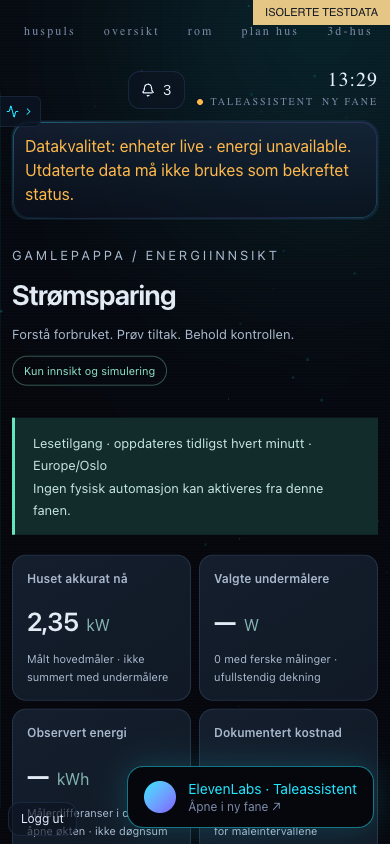
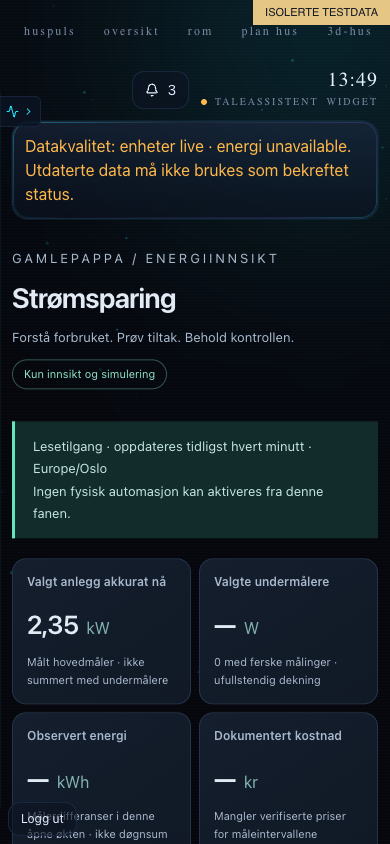
Separate energy sites and integrate independent Mac review

diff --git a/client/src/components/views/SavingsView.jsx b/client/src/components/views/SavingsView.jsx
@@ -1,6 +1,6 @@
 import { useEffect, useMemo, useState } from 'react';
 import { apiFetch } from '../../lib/api.js';
-import { inventory, overview, recommendations, appendSample, meterHistory, intervalCost, simulate, validatePlan } from '../../lib/savingsModel.js';
+import { inventory, siteRows, overview, recommendations, appendSample, meterHistory, intervalCost, simulate, validatePlan } from '../../lib/savingsModel.js';
 import './savings.css';
 const labels={measured:'Målt',missing:'Mangler',stale:'Foreldet / ukjent tid',demo:'Demo',live:'Tilgjengelig'};
 const number=(n,d=1)=>typeof n==='number'&&Number.isFinite(n)?n.toLocaleString('nb-NO',{maximumFractionDigits:d}):'—';
@@ -9,6 +9,7 @@ const initialPlan={deviceId:'',minutes:30,reason:'',comfort:'',nonCritical:false
 export function SavingsView(){
   const [data,setData]=useState(null),[error,setError]=useState(''),[clock,setClock]=useState(Date.now());
   const [mainId,setMain]=useState(''),[subIds,setSubs]=useState([]),[room,setRoom]=useState('');
+  const [siteId,setSite]=useState('hunstein'),[assignments,setAssignments]=useState({}),[cumulative,setCumulative]=useState(false);
   const [samples,setSamples]=useState([]),[plan,setPlan]=useState(initialPlan),[result,setResult]=useState(null);
   const [status,setStatus]=useState('Kladd'),[log,setLog]=useState([]),[confirmed,setConfirmed]=useState(false);
   const addLog=message=>setLog(old=>[{at:Date.now(),message},...old].slice(0,100));
@@ -24,40 +25,41 @@ export function SavingsView(){
   },[]);
   const quality=error?'stale':data?.devices?.quality;
   const rows=useMemo(()=>inventory(data?.devices?.value||{},data?.zones?.value||{},quality,clock),[data,quality,clock]);
-  const summary=useMemo(()=>overview(rows,mainId,subIds),[rows,mainId,subIds]);
-  const advice=useMemo(()=>recommendations(rows,summary),[rows,summary]);
-  useEffect(()=>{setSamples(old=>appendSample(old,rows.find(r=>r.id===mainId)));},[rows,mainId]);
-  const history=meterHistory(samples,mainId), cost=intervalCost(history,[]);
+  const scopedRows=useMemo(()=>siteRows(rows,siteId,assignments),[rows,siteId,assignments]);
+  const summary=useMemo(()=>overview(scopedRows,mainId,subIds),[scopedRows,mainId,subIds]);
+  const advice=useMemo(()=>recommendations(scopedRows,summary),[scopedRows,summary]);
+  useEffect(()=>{setSamples(old=>cumulative?appendSample(old,scopedRows.find(r=>r.id===mainId)):old);},[scopedRows,mainId,cumulative]);
+  const history=cumulative?meterHistory(samples,mainId):[], cost=intervalCost(history,[]);
   useEffect(()=>{
-    if(status==='Aktiv forhåndsvisning'&&validatePlan(plan,rows).length){setStatus('Pauset — datagrunnlaget er ikke lenger gyldig');setConfirmed(false);setResult(null);addLog('Forhåndsvisning automatisk pauset fordi ferske data eller enhetsgrunnlag mangler.');}
-  },[rows,plan,status]);
+    if(status==='Aktiv forhåndsvisning'&&validatePlan(plan,scopedRows).length){setStatus('Pauset — datagrunnlaget er ikke lenger gyldig');setConfirmed(false);setResult(null);addLog('Forhåndsvisning automatisk pauset fordi ferske data eller enhetsgrunnlag mangler.');}
+  },[scopedRows,plan,status]);
   const changePlan=patch=>{setPlan(p=>({...p,...patch}));setResult(null);setConfirmed(false);setStatus('Kladd');};
-  const runSimulation=()=>{const r=simulate(plan,rows);setResult(r);setStatus(r.ok?'Simulert':'Krever avklaring');addLog(r.ok?'Simulering beregnet lokalt. Ingen kommando sendt.':'Simulering stoppet: nødvendige opplysninger mangler.');};
-  const activatePreview=()=>{const fresh=simulate(plan,rows);if(!confirmed||!fresh.ok){setResult(fresh);setStatus('Krever ny simulering');return;}setResult(fresh);setStatus('Aktiv forhåndsvisning');addLog('Bruker aktiverte lokal forhåndsvisning. Fysisk kjøring er ikke implementert.');};
+  const runSimulation=()=>{const r=simulate(plan,scopedRows);setResult(r);setStatus(r.ok?'Simulert':'Krever avklaring');addLog(r.ok?'Simulering beregnet lokalt. Ingen kommando sendt.':'Simulering stoppet: nødvendige opplysninger mangler.');};
+  const activatePreview=()=>{const fresh=simulate(plan,scopedRows);if(!confirmed||!fresh.ok){setResult(fresh);setStatus('Krever ny simulering');return;}setResult(fresh);setStatus('Aktiv forhåndsvisning');addLog('Bruker aktiverte lokal forhåndsvisning. Fysisk kjøring er ikke implementert.');};
   const shown=rows.filter(r=>!room||r.room===room).sort((a,b)=>(b.power.value??-Infinity)-(a.power.value??-Infinity));
   return <div className="savings">
     <header className="saving-hero"><div><p className="saving-eyebrow">GAMLEPAPPA / ENERGIINNSIKT</p><h1>Strømsparing</h1><p>Forstå forbruket. Prøv tiltak. Behold kontrollen.</p></div><span className="saving-badge">Kun innsikt og simulering</span></header>
     <div className="saving-notice" role="status">{quality==='demo'?'DEMO — alle kildedata er testdata. Ingen bekreftet husmåling.':error||'Lesetilgang · oppdateres tidligst hvert minutt · Europe/Oslo'}<br/>Ingen fysisk automasjon kan aktiveres fra denne fanen.</div>
     <section className="saving-metrics" aria-label="Forbruksoversikt">
-      <Metric title="Huset akkurat nå" value={summary.total===null?'—':number(summary.total/1000,2)} unit="kW" note={summary.total===null?'Velg en fersk, bekreftet hovedmåler':'Målt hovedmåler · ikke summert med undermålere'}/>
+      <Metric title="Valgt anlegg akkurat nå" value={summary.total===null?'—':number(summary.total/1000,2)} unit="kW" note={summary.total===null?'Velg en fersk, bekreftet hovedmåler':'Målt hovedmåler · ikke summert med undermålere'}/>
       <Metric title="Valgte undermålere" value={number(summary.subtotal)} unit="W" note={`${summary.selected} med ferske målinger · ufullstendig dekning`}/>
       <Metric title="Observert energi" value={history.some(i=>i.kwh!==null)?number(history.reduce((s,i)=>s+(i.kwh??0),0),3):'—'} unit="kWh" note="Målerdifferanser i denne åpne økten · ikke døgnsum"/>
       <Metric title="Dokumentert kostnad" value={number(cost.cost,2)} unit="kr" note="Mangler verifiserte priser for måleintervallene"/>
     </section>
     <div className="saving-grid">
-      <section className="saving-card"><h2>01 / Måleroppsett</h2><label>Bekreftet hovedmåler<select value={mainId} onChange={e=>{setMain(e.target.value);setSubs(ids=>ids.filter(id=>id!==e.target.value));}}><option value="">Ikke identifisert</option>{rows.filter(r=>r.power.value!==null||r.meter.value!==null).map(r=><option key={r.id} value={r.id}>{r.name} · {r.room}</option>)}</select></label><p>Velg bare måleren som dekker hele huset. En ukjent enhet blir aldri automatisk hovedmåler.</p><details><summary>Velg uavhengige undermålere ({subIds.length})</summary><p>Velg kun målere som ikke overlapper hverandre. Hovedmåleren er utelatt.</p>{rows.filter(r=>r.id!==mainId&&r.power.value!==null).map(r=><label className="saving-check" key={r.id}><input type="checkbox" checked={subIds.includes(r.id)} onChange={e=>setSubs(ids=>e.target.checked?[...ids,r.id]:ids.filter(id=>id!==r.id))}/>{r.name}</label>)}</details>{summary.inconsistent&&<p role="alert" className="saving-warning">Undermåling overstiger hovedmåling. Kontroller overlapp og tidspunkt.</p>}<p>Ufordelt effekt: <strong>{number(summary.residual)} W</strong>. Differansen kan skyldes umålte laster eller usamtidige målinger.</p></section>
-      <section className="saving-card"><h2>02 / Datadekning</h2><div className="saving-coverage"><strong>{summary.measured} / {rows.length}</strong><span>enheter med fersk effektmåling</span></div><p>{summary.stale} foreldet · {summary.missing} uten effektdata. Dette er enhetsdekning, ikke prosent av husets energiforbruk.</p><dl><dt>Siste vellykkede enhetslesing</dt><dd>{time(data?.devices?.updatedAt)}</dd><dt>Sanntidsrapport fra Homey</dt><dd>{labels[data?.live?.quality]||'Mangler'} · format ikke kartlagt</dd><dt>Dagsrapport {data?.date||''}</dt><dd>{labels[data?.day?.quality]||'Mangler'} · format ikke kartlagt</dd></dl><p>Rapporttall brukes først når enheter og målerhierarki er verifisert. Målt, estimert, manglende og foreldet vises hver for seg.</p></section>
+      <section className="saving-card"><h2>01 / Måleroppsett</h2><label>Anlegg<select value={siteId} onChange={e=>{setSite(e.target.value);setMain('');setSubs([]);setCumulative(false);changePlan(initialPlan);}}><option value="hunstein">Hunstein 48C</option><option value="halsaneset">Halsaneset</option></select></label><p>Tilordne hver måler til riktig anlegg i tabellen nedenfor. Ukjent tilhørighet utelates. Oppsettet lagres bare i denne åpne fanen.</p><label>Bekreftet hovedmåler<select value={mainId} onChange={e=>{setMain(e.target.value);setCumulative(false);setSubs(ids=>ids.filter(id=>id!==e.target.value));}}><option value="">Ikke identifisert</option>{scopedRows.filter(r=>r.power.value!==null||r.meter.value!==null).map(r=><option key={r.id} value={r.id}>{r.name} · {r.room}</option>)}</select></label><p>Velg bare måleren som dekker hele huset. En ukjent enhet blir aldri automatisk hovedmåler.</p><details><summary>Velg uavhengige undermålere ({subIds.length})</summary><p>Velg kun målere som ikke overlapper hverandre. Hovedmåleren er utelatt.</p>{scopedRows.filter(r=>r.id!==mainId&&r.power.value!==null).map(r=><label className="saving-check" key={r.id}><input type="checkbox" checked={subIds.includes(r.id)} onChange={e=>setSubs(ids=>e.target.checked?[...ids,r.id]:ids.filter(id=>id!==r.id))}/>{r.name}</label>)}</details>{summary.inconsistent&&<p role="alert" className="saving-warning">Undermåling overstiger hovedmåling. Kontroller overlapp og tidspunkt.</p>}<p>Ufordelt effekt: <strong>{number(summary.residual)} W</strong>. Differansen kan skyldes umålte laster eller usamtidige målinger.</p></section>
+      <section className="saving-card"><h2>02 / Datadekning</h2><div className="saving-coverage"><strong>{summary.measured} / {scopedRows.length}</strong><span>tilordnede enheter med fersk effektmåling</span></div><p>{summary.stale} foreldet · {summary.missing} uten effektdata. Dette er enhetsdekning, ikke prosent av husets energiforbruk.</p><dl><dt>Siste vellykkede enhetslesing</dt><dd>{time(data?.devices?.updatedAt)}</dd><dt>Sanntidsrapport fra Homey</dt><dd>{labels[data?.live?.quality]||'Mangler'} · format ikke kartlagt</dd><dt>Dagsrapport {data?.date||''}</dt><dd>{labels[data?.day?.quality]||'Mangler'} · format ikke kartlagt</dd><dt>Kildestatus</dt><dd>{data?.devices?.reason||'Ingen kildefeil rapportert'}{data?.devices?.retryAt?` · neste leseforsøk tidligst ${time(data.devices.retryAt)}`:''}</dd></dl><p>Rapporttall brukes først når enheter og målerhierarki er verifisert. Målt, estimert, manglende og foreldet vises hver for seg.</p></section>
     </div>
     <section className="saving-card"><div className="saving-section-head"><h2>03 / Enheter og rom</h2><label>Rom<select value={room} onChange={e=>setRoom(e.target.value)}><option value="">Alle rom</option>{[...new Set(rows.map(r=>r.room))].sort().map(r=><option key={r}>{r}</option>)}</select></label></div>
       {summary.rooms.length>0&&<div className="saving-room-grid">{summary.rooms.map(r=><div key={r.room}><strong>{r.room}</strong><p>{r.count?`${number(r.watts)} W`:'Ingen ferske målinger'}</p><small>Valgte undermålere</small></div>)}</div>}
-      <div className="saving-table"><table><thead><tr><th>Enhet / rom</th><th>Effekt</th><th>Målerstand</th><th>Kvalitet / tidspunkt</th></tr></thead><tbody>{shown.map(r=><tr key={r.id}><td>{r.name}{r.id===mainId?' · Hovedmåler':''}<small>{r.room}</small></td><td>{number(r.power.value)} W</td><td>{number(r.meter.value,3)} kWh<small>{labels[r.meter.quality]} · kumulativ</small></td><td><span className={`saving-quality ${r.power.quality}`}>{labels[r.power.quality]}</span><small>{time(r.power.at)}</small></td></tr>)}</tbody></table></div>{!rows.length&&<p>Ingen enhetsdata tilgjengelig. Manglende målinger er ikke nullforbruk.</p>}
+      <div className="saving-table"><table><thead><tr><th>Enhet / rom</th><th>Bekreftet anlegg</th><th>Effekt</th><th>Målerstand</th><th>Kvalitet / tidspunkt</th></tr></thead><tbody>{shown.map(r=><tr key={r.id}><td>{r.name}{r.id===mainId?' · Hovedmåler':''}<small>{r.room}</small></td><td><select aria-label={`Anlegg for ${r.name}`} value={assignments[r.id]||''} onChange={e=>{setAssignments(a=>({...a,[r.id]:e.target.value}));setMain('');setSubs([]);setCumulative(false);changePlan(initialPlan);}}><option value="">Ukjent / ikke bekreftet</option><option value="hunstein">Hunstein 48C</option><option value="halsaneset">Halsaneset</option></select></td><td>{number(r.power.value)} W</td><td>{number(r.meter.value,3)} kWh<small>{labels[r.meter.quality]} · målerperiode ikke verifisert</small></td><td><span className={`saving-quality ${r.power.quality}`}>{labels[r.power.quality]}</span><small>{time(r.power.at)}</small></td></tr>)}</tbody></table></div>{!rows.length&&<p>Ingen enhetsdata tilgjengelig. Manglende målinger er ikke nullforbruk.</p>}
     </section>
     <div className="saving-grid">
-      <section className="saving-card"><h2>04 / Historikk og pris</h2><p>Historikken starter når du velger hovedmåler og får to forskjellige, ferske målerstander. Den lagres bare i minnet og slettes når fanen lukkes. Ingen tilbakeskrevet døgnkurve.</p>{history.length?<ul>{history.slice(-8).map(i=><li key={i.end}>{time(i.start)} → {time(i.end)}<br/><strong>{number(i.kwh,3)} kWh</strong> · {i.reason||'Målt differanse'}</li>)}</ul>:<div className="saving-empty">Venter på to gyldige målerstander</div>}<p>Strømpris, nettleie og avgifter: <strong>mangler verifisert kilde</strong>. Negative priser støttes i beregningsmodellen, men ingen priser eller besparelser er oppdiktet.</p></section>
+      <section className="saving-card"><h2>04 / Historikk og pris</h2><label className="saving-check"><input type="checkbox" disabled={!mainId} checked={cumulative} onChange={e=>{setCumulative(e.target.checked);setSamples([]);}}/>Jeg har kontrollert at hovedmåleren rapporterer kumulativ import i kWh.</label><p>Historikken starter når du velger hovedmåler og får to forskjellige, ferske målerstander. Den lagres bare i minnet og slettes når fanen lukkes. Ingen tilbakeskrevet døgnkurve.</p>{history.length?<ul>{history.slice(-8).map(i=><li key={i.end}>{time(i.start)} → {time(i.end)}<br/><strong>{number(i.kwh,3)} kWh</strong> · {i.reason||'Målt differanse'}</li>)}</ul>:<div className="saving-empty">Venter på to gyldige målerstander</div>}<p>Strømpris, nettleie og avgifter: <strong>mangler verifisert kilde</strong>. Negative priser støttes i beregningsmodellen, men ingen priser eller besparelser er oppdiktet.</p></section>
       <section className="saving-card"><h2>05 / Analyse og anbefalinger</h2><span className="saving-badge">Regelbasert · ikke AI-generert</span><p>AI er ikke koblet til denne fanen. Anbefalinger bygger på datakvalitet og observerte målinger.</p>{advice.map(a=><article className="saving-advice" key={a.title}><h3>{a.title}</h3><p>{a.body}</p></article>)}{!advice.length&&<p>Ingen anbefalinger uten tilstrekkelig datagrunnlag.</p>}</section>
     </div>
     <section className="saving-card"><h2>06 / Prøv en automasjon</h2><p>Lag et lokalt utkast for å slå av ett ikke-kritisk lys i en avgrenset periode. Varme, frostvern, varmtvann, stikkontakter og ukjente enheter kan ikke velges. Ingen sikkerhetsgrenser gjettes.</p><div className="saving-form">
-      <label>Lys<select aria-label="Lys" value={plan.deviceId} onChange={e=>changePlan({deviceId:e.target.value})}><option value="">Velg identifisert lys</option>{rows.filter(r=>r.canPlan).map(r=><option key={r.id} value={r.id}>{r.name}</option>)}</select></label>
+      <label>Lys<select aria-label="Lys" value={plan.deviceId} onChange={e=>changePlan({deviceId:e.target.value})}><option value="">Velg identifisert lys</option>{scopedRows.filter(r=>r.canPlan).map(r=><option key={r.id} value={r.id}>{r.name}</option>)}</select></label>
       <label>Varighet (minutter)<input type="number" min="1" max="120" value={Number.isFinite(plan.minutes)?plan.minutes:''} onChange={e=>changePlan({minutes:e.target.value===''?NaN:Number(e.target.value)})}/></label>
       <label>Begrunnelse<input maxLength="500" value={plan.reason} placeholder="For eksempel: rommet står tomt" onChange={e=>changePlan({reason:e.target.value})}/></label>
       <label>Egne komfort- og sikkerhetsgrenser<input maxLength="500" value={plan.comfort} placeholder="Når skal lyset fortsatt være på?" onChange={e=>changePlan({comfort:e.target.value})}/></label>

diff --git a/server/tests/savings-sites-review.test.js b/server/tests/savings-sites-review.test.js
@@ -1,0 +1,53 @@
+import test from 'node:test';
+import assert from 'node:assert/strict';
+import {siteRows,overview,inventory} from '../../client/src/lib/savingsModel.js';
+
+const now=Date.parse('2026-10-17T10:00:00Z');
+const cap=value=>({value,lastUpdated:new Date(now).toISOString()});
+const device=(name,power)=>({name,class:'sensor',zone:'room',available:true,capabilitiesObj:{measure_power:cap(power),meter_power:cap(20)}});
+const rows=()=>inventory({'hoved-hunstein':device('Pulse Hunstein 48C',4000),'varmepumpe':device('NIBE F1255',1500),'hoved-halsaneset':device('Pulse Halsaneset',900),'panelovn':device('Panelovn hytta',800)},{room:{name:'Stue'}},'live',now);
+const TILDELT={'hoved-hunstein':'hunstein','varmepumpe':'hunstein','hoved-halsaneset':'halsaneset','panelovn':'halsaneset'};
+
+test('målere fra et annet anlegg utelates fra utvalg og totaler',()=>{
+  const h=siteRows(rows(),'hunstein',TILDELT);
+  assert.deepEqual(h.map(r=>r.id),['hoved-hunstein','varmepumpe']);
+  const s=overview(h,'hoved-hunstein',h.map(r=>r.id));
+  assert.equal(s.total,4000);assert.equal(s.subtotal,1500);assert.equal(s.residual,2500);assert.equal(s.measured,2);
+  const hals=siteRows(rows(),'halsaneset',TILDELT);
+  assert.deepEqual(hals.map(r=>r.id),['hoved-halsaneset','panelovn']);
+  assert.equal(overview(hals,'hoved-halsaneset',hals.map(r=>r.id)).total,900);
+  // Hovedmåleren på det andre anlegget er ikke engang synlig som undermåler her.
+  assert.equal(overview(h,'hoved-hunstein',['hoved-halsaneset','panelovn']).subtotal,null);
+  assert.equal(overview(rows(),'hoved-hunstein',[]).measured,4);
+});
+
+test('ukjent anleggs-id og ukjent eller manglende tilordning utelates',()=>{
+  const r=rows();
+  for(const site of ['travbaneveien','','HUNSTEIN',null,undefined,0,['hunstein']])assert.deepEqual(siteRows(r,site,TILDELT),[]);
+  assert.deepEqual(siteRows(r,'hunstein'),[]);
+  const delvis={...TILDELT,varmepumpe:'travbaneveien',panelovn:undefined,'hoved-halsaneset':null};
+  assert.deepEqual(siteRows(r,'hunstein',delvis).map(x=>x.id),['hoved-hunstein']);
+  assert.deepEqual(siteRows(r,'halsaneset',delvis),[]);
+  // Tomt utvalg gir null, ikke 0 W.
+  assert.equal(overview(siteRows(r,'halsaneset',delvis),'hoved-halsaneset',[]).total,null);
+});
+
+test('navn og rom som peker på anlegget gir ingen tilordning',()=>{
+  const navnerader=inventory({m1:device('Halsaneset hovedmåler',900),m2:device('Hunstein 48C',4000)},{room:{name:'Halsaneset'}},'live',now);
+  assert.deepEqual(siteRows(navnerader,'halsaneset',{}),[]);
+  assert.deepEqual(siteRows(navnerader,'hunstein',{}),[]);
+  // Eksplisitt tilordning vinner over navnet, i begge retninger.
+  assert.deepEqual(siteRows(navnerader,'hunstein',{m2:'hunstein'}).map(r=>r.id),['m2']);
+  assert.deepEqual(siteRows(navnerader,'halsaneset',{m2:'hunstein'}),[]);
+  assert.deepEqual(siteRows(navnerader,'halsaneset',{m2:'halsaneset'}).map(r=>r.id),['m2']);
+});
+
+test('prototypearvet tilordning teller ikke som brukerbekreftet',()=>{
+  const r=rows();
+  assert.deepEqual(siteRows(r,'hunstein',Object.create({'hoved-hunstein':'hunstein','varmepumpe':'hunstein'})),[]);
+  const blandet=Object.assign(Object.create({varmepumpe:'hunstein'}),{'hoved-hunstein':'hunstein'});
+  assert.deepEqual(siteRows(r,'hunstein',blandet).map(x=>x.id),['hoved-hunstein']);
+  assert.equal(overview(siteRows(r,'hunstein',blandet),'hoved-hunstein',['varmepumpe']).subtotal,null);
+  for(const key of ['constructor','toString','valueOf','hasOwnProperty','__proto__','isPrototypeOf'])
+    assert.deepEqual(siteRows(inventory({[key]:device(key,100)},{},'live',now),'hunstein',{}),[]);
+});

diff --git a/client/src/components/views/EnergyView.jsx b/client/src/components/views/EnergyView.jsx
@@ -26,11 +26,10 @@ export function EnergyView({ devices, zones, energy }) {
       .sort((a, b) => (b.watts || 0) - (a.watts || 0));
   }, [devices, zones]);
 
-  const totalLive = energyDevices.reduce((s, d) => s + (d.watts || 0), 0);
   const byZone = useMemo(() => {
     const m = new Map();
     for (const d of energyDevices) {
-      m.set(d.zone, (m.get(d.zone) || 0) + (d.watts || 0));
+      m.set(d.zone, (m.get(d.zone) || 0) + 1);
     }
     return [...m.entries()].sort((a, b) => b[1] - a[1]);
   }, [energyDevices]);
@@ -44,14 +43,14 @@ export function EnergyView({ devices, zones, energy }) {
           </Suspense>
         </div>
         <div className="panel p-4">
-          <p className="panel-title">Sanntid</p>
+          <p className="panel-title">Enhetsoversikt</p>
           <div className="mt-2 flex items-baseline gap-2">
             <Zap size={20} className="text-nx-cyan" aria-hidden="true" />
-            <span className="font-mono text-3xl">{Math.round(totalLive).toLocaleString('no-NO')}</span>
-            <span className="text-nx-mute text-sm">W totalt</span>
+            <span className="font-mono text-3xl">{energyDevices.length}</span>
+            <span className="text-nx-mute text-sm">målere</span>
           </div>
           <p className="mt-1 text-xs text-nx-mute">
-            Summen er fra {energyDevices.length} enheter med strøm-måling.
+            Ingen totalsum: listen kan inneholde hovedmålere, undermålere og ulike anlegg. Bruk Strømsparing for brukerbekreftet anlegg og måleroppsett.
           </p>
           {energy?.today && (
             <div className="mt-4">
@@ -67,19 +66,19 @@ export function EnergyView({ devices, zones, energy }) {
       </header>
 
       <section>
-        <h3 className="panel-title">Per rom (sanntid)</h3>
+        <h3 className="panel-title">Målere per rom</h3>
         <div className="mt-2 grid grid-cols-1 sm:grid-cols-2 lg:grid-cols-3 gap-2">
-          {byZone.map(([zone, watts]) => (
+          {byZone.map(([zone, count]) => (
             <div key={zone} className="panel p-3 flex items-center justify-between">
               <span className="text-sm truncate">{zone}</span>
-              <span className="font-mono text-sm text-nx-cyan">{Math.round(watts).toLocaleString('no-NO')} W</span>
+              <span className="font-mono text-sm text-nx-cyan">{count} målere</span>
             </div>
           ))}
         </div>
       </section>
 
       <section>
-        <h3 className="panel-title">Per enhet ({energyDevices.length})</h3>
+        <h3 className="panel-title">Sist rapportert per enhet ({energyDevices.length})</h3>
         <div className="mt-2 panel p-2">
           <ul className="divide-y divide-nx-line/40 max-h-[480px] overflow-y-auto">
             {energyDevices.map(d => (

diff --git a/server/tests/savings.test.js b/server/tests/savings.test.js
@@ -29,3 +29,19 @@ test('v10 shared device cache suppresses polling after rate limit',async()=>{con
 test('v10 HTTP Retry-After is retained without logging response bodies',async()=>{const {fetchJson}=await import('../lib/http.js');await assert.rejects(fetchJson('https://example.invalid',{}, {fetchImpl:async()=>new Response('SECRET',{status:429,headers:{'Retry-After':'120'}})}),e=>e.upstreamStatus===429&&e.retryAfterMs===120000&&!e.message.includes('SECRET'));});
 
 test('v10 server is independent of frontend sources and uses the same Oslo dates',async()=>{const {osloDate:serverDate}=await import('../lib/energyReader.js');for(const t of ['2026-10-17T22:30:00Z','2026-03-29T01:30:00Z','2026-10-25T01:30:00Z'])assert.equal(serverDate(Date.parse(t)),osloDate(Date.parse(t)));const {readFile}=await import('node:fs/promises');assert.ok(!(await readFile(new URL('../routes/savings.js',import.meta.url),'utf8')).includes('client/src'));});
+
+test('site boundaries exclude unknown and other-site meters from totals and simulation', async()=>{
+  const {siteRows}=await import('../../client/src/lib/savingsModel.js');
+  const assignments={main:'hunstein',light:'halsaneset'};
+  const scoped=siteRows(rows(),'hunstein',assignments);
+  assert.equal(overview(scoped,'main',['light','unknown']).subtotal,null);
+  assert.equal(simulate(plan,scoped).ok,false);
+  assert.equal(siteRows(rows(),'unknown',assignments).length,0);
+  assert.equal(siteRows(rows(),'hunstein').length,0);
+  assert.deepEqual(siteRows(rows(),'halsaneset',assignments).map(r=>r.id),['light']);
+});
+test('429 reason survives cache hits rather than becoming a generic missing source',async()=>{
+  const r=energyReader(async()=>{throw {upstreamStatus:429};});
+  assert.match((await r()).reason,/429/);
+  assert.match((await r()).reason,/429/);
+});

diff --git a/server/lib/energyReader.js b/server/lib/energyReader.js
@@ -1,18 +1,19 @@
 // Read-only, single-flight cache. Last successful timestamp is never refreshed on errors.
 export function energyReader(load, {ttl=60_000, now=Date.now}={}) {
-  let value, updatedAt=null, nextAttempt=0, failures=0, pending;
+  let value, updatedAt=null, nextAttempt=0, failures=0, pending, lastReason=null;
   const result=(quality,reason=null)=>({value:value??null,quality,updatedAt,retryAt:nextAttempt,reason});
   return async () => {
-    if(now()<nextAttempt) return result(failures ? (value===undefined?'missing':'stale') : 'live', failures?'Kilden er midlertidig utilgjengelig':null);
+    if(now()<nextAttempt) return result(failures ? (value===undefined?'missing':'stale') : 'live', failures?lastReason:null);
     if(pending) return pending;
     pending=Promise.resolve().then(load).then(data=>{
-      value=data; updatedAt=now(); failures=0; nextAttempt=now()+ttl; return result('live');
+      value=data; updatedAt=now(); failures=0; lastReason=null; nextAttempt=now()+ttl; return result('live');
     }).catch(error=>{
       failures++;
       const throttled=error.upstreamStatus===429;
       const retry=Number(error.retryAfterMs);
       nextAttempt=now()+Math.max(ttl, Math.min(900_000,throttled?60_000*2**Math.min(failures-1,4):ttl*2**Math.min(failures-1,4)),Number.isFinite(retry)?Math.min(retry,3_600_000):0);
-      return result(value===undefined?'missing':'stale',throttled?'Homey begrenser forespørsler (429)':'Kilden er ikke tilgjengelig');
+      lastReason=throttled?'Homey begrenser forespørsler (429)':'Kilden er ikke tilgjengelig';
+      return result(value===undefined?'missing':'stale',lastReason);
     }).finally(()=>{pending=null;});
     return pending;
   };

diff --git a/server/lib/homeyClient.js b/server/lib/homeyClient.js
@@ -59,6 +59,8 @@ const devicesReader = cachedReader(() => homeyFetch('/manager/devices/device'));
 const zonesReader = cachedReader(() => homeyFetch('/manager/zones/zone'), 60000);
 const flowsReader = cachedReader(() => homeyFetch('/manager/flow/flow'), 60000);
 
+const legacyEnergyReaders = new Map();
+
 export const homeyClient = {
   listDevices: devicesReader,
   refreshDevices: () => { devicesReader.invalidate(); return devicesReader(); },
@@ -93,8 +95,11 @@ export const homeyClient = {
     if (!/^\d{4}-\d{2}-\d{2}$/.test(date)) throw new Error('Ugyldig dato');
     return homeyFetch(`/manager/energy/report/day?date=${encodeURIComponent(date)}`);
   },
-  // Legacy widgets expect a different schema; do not fabricate an adapter or call /report/today (404).
-  getEnergyReport: async () => { throw new Error('Energirapportens format er ikke verifisert. Se Strømsparing for kildestatus.'); }
+  // Preserve the legacy contract while caching failures, including the observed 404.
+  getEnergyReport: (scope = 'today') => {
+    if (!legacyEnergyReaders.has(scope)) legacyEnergyReaders.set(scope, cachedReader(() => homeyFetch(`/manager/energy/report/${encodeURIComponent(scope)}`), 300000));
+    return legacyEnergyReaders.get(scope)();
+  }
 };
 
 export function isConfigured() {

diff --git a/client/src/lib/savingsModel.js b/client/src/lib/savingsModel.js
@@ -88,3 +88,9 @@ export function appendSample(samples, row) {
   if(samples.some(s=>s.id===point.id&&s.at===point.at)) return samples;
   return [...samples,point].slice(-1440);
 }
+
+// Site membership is explicit user input. Never infer it from device names/rooms.
+export function siteRows(rows, siteId, assignments = {}) {
+  if (!['hunstein', 'halsaneset'].includes(siteId)) return [];
+  return rows.filter(row => Object.hasOwn(assignments, row.id) && assignments[row.id] === siteId);
+}

diff --git a/docs/STROMSPARING.md b/docs/STROMSPARING.md
@@ -1,6 +1,6 @@
 # Strømsparing — local implementation, 17 October 2026
 
-Base: `befd5b77f544a06d4a636b77cdc3e593b2675140`, the clean local review checkout. This is newer than the supplied previously deployed SHA. Production state has not been verified or changed. Original checkout untouched. GitHub, Railway, Homey commands, API keys, external configuration and the isolated voice widget have not been modified.
+Original local base: `befd5b77f544a06d4a636b77cdc3e593b2675140`. The ten checkpoints were recovered from their verified Git bundle after iCloud evicted workspace files, and merged with production/main `4e4191dd177e6eb5d8b8e76f723155fd5107fea5`. Publication was subsequently authorized by the user. The active publishing checkout is `/tmp/gamlepappa-energy-publish-20261017`. Google authentication, the current 3D/door implementation, dimming and the standard ElevenLabs widget are preserved from latest main. No physical commands or automation activation are authorized or implemented here.
 
 ## Ten local versions
 
@@ -19,13 +19,13 @@ These are ten cumulative, reviewable local implementation checkpoints, not ten d
 
 ## Data boundaries and remaining requirements
 
-- `measure_power` is treated as source-reported W and `meter_power` as cumulative kWh. The label “Målt” means a numeric, fresh capability reading, not independently verified physical calibration. Virtual/estimated device provenance must be checked before relying on it. Receipt time never replaces a sensor timestamp.
+- `measure_power` is treated as source-reported W and `meter_power` as source-reported kWh with an unverified period. Historical differences additionally require the user to confirm cumulative import semantics. The label “Målt” means a numeric, fresh capability reading, not independently verified physical calibration. Virtual/estimated device provenance must be checked before relying on it. Receipt time never replaces a sensor timestamp.
 - A device measurement is stale after two minutes; missing timestamps, future timestamps and unavailable devices also fail closed. Some stable Homey values may update only on change; they are conservatively excluded until the source's freshness semantics are verified.
-- Main and non-overlapping submeter assignments are user selections for this browser tab only. No guesses are made from device names. Submeters can still overlap if selected incorrectly: the UI explains this limitation. Enhetsdekning is not whole-house energy coverage.
-- Live and daily Homey reports are read with caching, but their raw schema is not mapped or exposed. The old `/manager/energy/report/today` request is removed because it was known to return 404. Legacy energy widgets therefore retain unavailable status until a verified adapter exists; demonstration mode retains its pre-existing sample report. Other existing tabs/components are preserved.
+- Anlegg (Hunstein/Halsaneset), device membership, main and non-overlapping submeter assignments are explicit user selections for this browser tab only. Unknown membership and other-site devices are excluded from totals, recommendations and simulations. No 18-digit billing identifier is requested or treated as proof. No guesses are made from device names. Submeters can still overlap if selected incorrectly: the UI explains this limitation. Enhetsdekning is not whole-house energy coverage.
+- Live and daily Homey reports are read with caching, but their raw schema is not mapped or exposed. The existing legacy energy-report API contract is preserved behind a cached reader with failure backoff; the observed `/report/today` 404 remains honestly unavailable. The old Energy screen no longer displays an unsafe cross-meter total or sums watts by room without a meter hierarchy. It retains individual readings and room meter counts.
 - Historical values are **only** consecutive, fresh cumulative meter readings observed while the tab is open. Reset intervals are excluded, not treated as negative consumption. This is not daily history or durable storage. Long observation gaps are included as meter deltas, not estimated hourly curves. Counter rollovers, export meters and physical hierarchy still need source verification.
 - No actual tariff/price feed is available to this local work. Cost UI deliberately stays missing; pure calculation accepts exact matched intervals and `NOK/kWh`. Spot price, taxes, grid fees and subsidies are not assumed.
-- No external AI was called and no new key/access was requested. Existing AI features elsewhere were not reused because they can have action tools. This feature is honestly rule-based. Read-only AI synthesis would require a verified authorized provider and a strict tools-free contract.
+- No external AI was called and no new key/access was requested. Railway confirms an existing OpenAI variable name, but its value was neither exposed nor tested. The Homey MCP connector failed in its Homey sub-node. This feature remains honestly rule-based; no claim of connected AI is made.
 - Simulation is a conditional estimate at the observed instantaneous light power. The user supplies the non-critical determination and comfort constraints. It never claims realized savings and cannot control heating, water, sockets or unknown equipment.
 - Activation affects only an in-memory preview label; there is no executor, scheduler, persisted rule, physical API endpoint or Homey flow creation. Pause/stop affects that preview only, not other automation systems. Before any future real activation, safety boundaries require structured enforceable checks, device ownership, fresh confirmation, authorization, durable audit and a real execution stop mechanism. Free-text limits are not interpreted as executable safety rules.
 - API GET is behind unchanged existing access control. Viewer writes are refused; all attempted feature writes return 405 for authorized users. No raw report, token, debug body or credentials are logged by the feature.
@@ -44,6 +44,6 @@ Use Node 22.12–26 and install the lockfile dependencies normally. Dependencies
 
 No production secrets should be present for local preview. Run only with explicit DEMO_MODE=true and DATABASE_URL/HOMEY_PAT/AI/MCP environment values absent. Visual test fixtures intercept all API calls and prohibit outbound requests. Screenshots contain synthetic data only.
 
-Publication is pending separate user approval. No push, PR, deployment, Railway update or physical activation was attempted by this task.
+Publication is authorized; the exact remote commit and Railway result are recorded in the task delivery. No physical activation is part of publication.
 
 Browser verification: `PLAYWRIGHT_MODULE=<installed playwright-core module> CHROME_PATH=<installed Chromium executable> node scripts/verify-savings.mjs`. This starts a loopback static server and a fresh headless browser; it does not start the application backend.

diff --git a/docs/VERSIONS.md b/docs/VERSIONS.md
@@ -45,3 +45,13 @@ Fanen er koblet til eksisterende navigasjon og innlogging. Mobiloppsettet begren
 Sluttkontroll: 64 av 64 tester bestått; Vite produksjonsbygg bestått. Nettlesertest verifiserte hoved-/undermåler, estimert scenario, eksplisitt lokal aktivering, pause, stopp, logg, 390px uten horisontal overflyt, manglende/foreldede data og eksisterende Enheter/Energi-navigasjon. Null skrivende API-kall og null nettleserfeil. Fem skjermbilder er lagret og skrivebord/mobil/simulering visuelt kontrollert. Google-innlogging, 3D-hus og VoiceAssistant-kildefiler er uendret.
 
 Se `verification/final-tests.txt`, `verification/final-build.txt`, `verification/browser-tests.txt` og `STROMSPARING.md`. Utkastet har ingen fysisk automasjonsmotor, verifisert prisadapter eller AI-kobling. Publisering avventer særskilt godkjenning.
+
+## Integration and alternating review — 17 October 2026
+
+1. Codex recovered all ten local checkpoints, merged latest main and preserved the newer 3D/ElevenLabs changes.
+2. Mac i stuen reviewed the design through the existing connector. It identified separate sites and suggested peak-load insight. We deferred tariff-specific advice and inferred appliance identification until actual tariff/history are verified.
+3. Codex implemented explicit site membership, unknown-site exclusion, cumulative-meter confirmation, cached 429 reasons and preserved the legacy adapter contract.
+4. Mac i stuen independently wrote `server/tests/savings-sites-review.test.js` (four passing tests). Only that file was delegated; one writer at a time. Its suggested billing-ID requirement was discussed and rejected: a formatted identifier does not prove meter membership, and is unnecessary for local insight.
+5. Codex removed unsafe totals from the old Energy screen, integrated the independent tests and repeated build/browser/regression verification.
+
+OpenClaw calls timed out at the connector while work continued. Session history was read before any follow-up; no duplicate write was issued. GitHub/Railway publication is authorized by the user's later instruction. Physical control remains out of scope.
